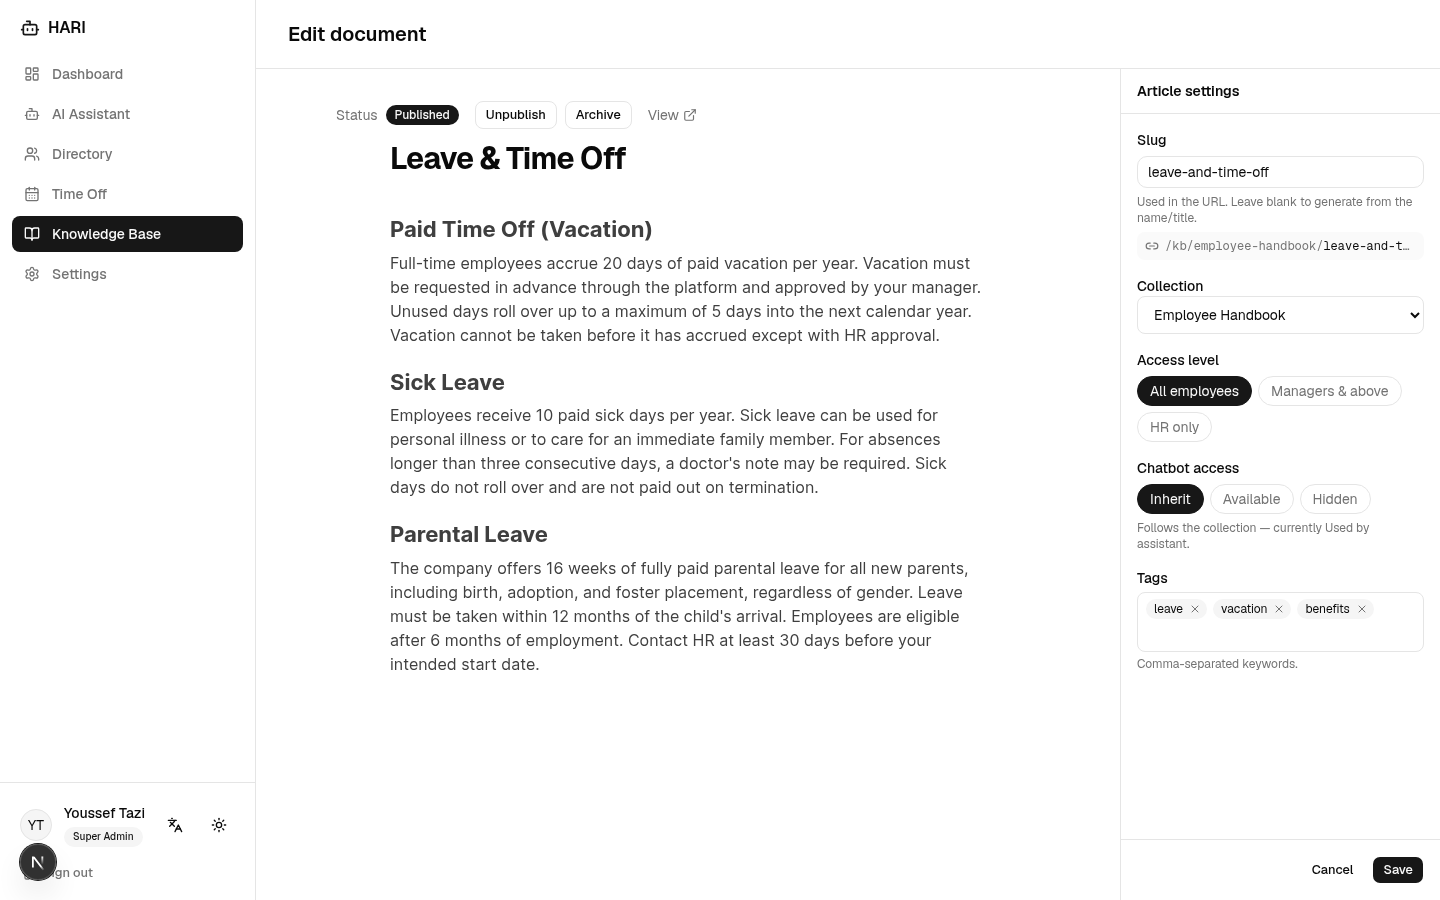
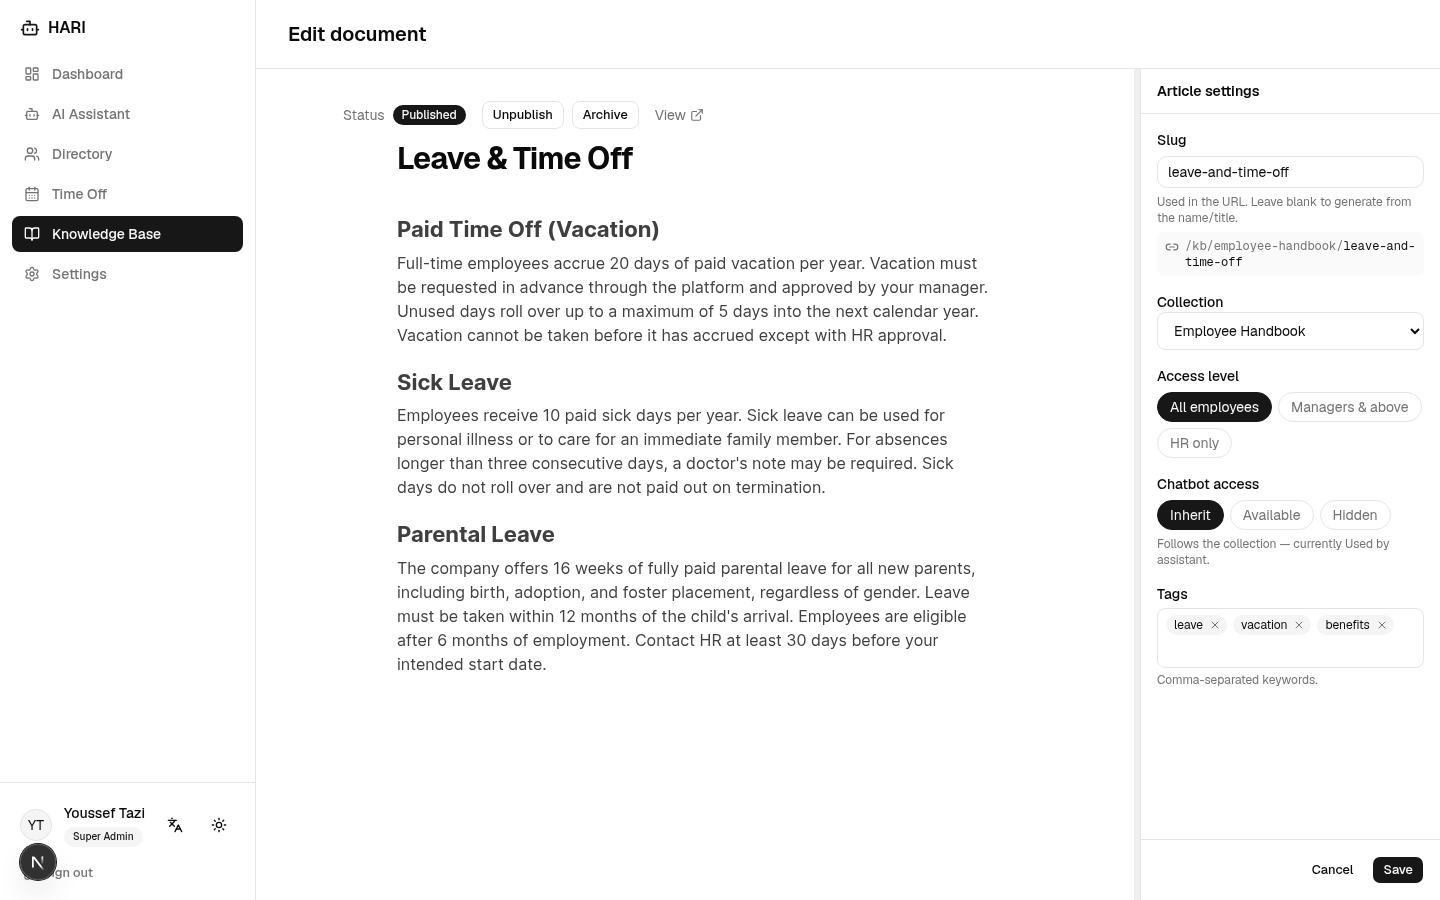
style(kb): resizable editor split, mobile sticky save, slug wrap, reader body
Round of UX fixes from review + web best-practice research:
- Desktop: the canvas | settings split is now resizable (drag handle or keyboard
  arrows, persisted to localStorage, clamped 260–480px), with the left/canvas
  bigger by default (rail 300px).
- Mobile: content-first (title + editor first, settings below) with Save/Cancel in
  a sticky bottom bar within thumb reach (44px targets), per mobile UX guidance.
- Slug preview no longer truncates the slug off the edge — the URL chip wraps so
  the full /kb/{collection}/{slug} stays visible.
- Reader: bumped article body to 16px with a proportionate heading scale for
  comfortable long-form reading (was 14px).

Audited with Playwright + axe-core: 0 violations (desktop + mobile); resize works
via drag and keyboard with aria-valuenow; sticky bar pinned; no horizontal scroll
at 390px. tsc, lint, next build, 64/64 keyless tests green.

diff --git a/src/components/kb/document-form.tsx b/src/components/kb/document-form.tsx
@@ -11,6 +11,7 @@ import { AssistantOverrideField } from "@/components/kb/assistant-override-field
 import { DocumentLifecycle } from "@/components/kb/document-lifecycle";
 import { PillRadioGroup } from "@/components/kb/pill-radio-group";
 import { TagInput } from "@/components/kb/tag-input";
+import { ResizablePanels } from "@/components/kb/resizable-panels";
 
 const VISIBILITIES = Object.values(DocVisibility);
 
@@ -35,11 +36,11 @@ type Defaults = {
 
 const selectClass = "block w-full rounded-md border bg-background px-3 py-2 text-sm";
 
-// Authoring surface modelled on a help-center editor (e.g. Zendesk Guide): the
-// title + content are the canvas (left, scrolls independently); a full-height
-// "Article settings" rail on the right holds the document settings (scrollable)
-// with Cancel/Save pinned to the bottom. On mobile the rail stacks above the
-// canvas and the page scrolls normally.
+// Authoring surface modelled on a help-center editor (e.g. Zendesk Guide). Desktop:
+// the title + content are the canvas (left, scrolls on its own); a resizable,
+// full-height "Article settings" rail on the right holds settings (scrollable)
+// with Cancel/Save pinned to the bottom. Mobile: content first, settings below,
+// and Save in a sticky bottom bar within thumb reach.
 export async function DocumentForm({
   action,
   submitLabel,
@@ -68,106 +69,120 @@ export async function DocumentForm({
   const statusNote =
     status === "DRAFT" ? t("draftNotice") : status === "ARCHIVED" ? t("archivedNotice") : null;
 
-  return (
-    <form action={action} className="flex flex-col-reverse lg:min-h-0 lg:flex-1 lg:flex-row">
-      {defaults.id && <input type="hidden" name="id" value={defaults.id} />}
-
-      {/* Canvas — title + editor, scrolls on its own at lg */}
-      <div className="min-w-0 lg:flex-1 lg:overflow-y-auto">
-        <div className="mx-auto max-w-3xl space-y-3 p-4 md:p-8">
-          {status && (
-            <div className="space-y-1.5">
-              <div className="flex flex-wrap items-center gap-x-4 gap-y-2 text-sm">
-                <span className="flex items-center gap-2 text-muted-foreground">
-                  {t("status")}
-                  <Badge variant={STATUS_VARIANT[status]}>{tStatus(status)}</Badge>
-                </span>
-                {lifecycle && defaults.id && (
-                  <DocumentLifecycle
-                    id={defaults.id}
-                    status={status}
-                    publish={lifecycle.publish}
-                    unpublish={lifecycle.unpublish}
-                    archive={lifecycle.archive}
-                  />
-                )}
-                {viewHref && (
-                  <Link
-                    href={viewHref}
-                    className="inline-flex items-center gap-1 text-muted-foreground transition-colors hover:text-foreground"
-                  >
-                    {t("view")}
-                    <ExternalLink className="size-3.5" />
-                  </Link>
-                )}
-              </div>
-              {statusNote && <p className="text-xs text-muted-foreground">{statusNote}</p>}
-            </div>
-          )}
-          <input
-            name="title"
-            defaultValue={defaults.title ?? ""}
-            required
-            aria-label={t("fieldTitle")}
-            placeholder={t("fieldTitle")}
-            // pl matches BlockNote's 54px content gutter so the title aligns with the body text.
-            className="w-full border-0 bg-transparent pl-[54px] pr-0 text-3xl font-bold tracking-tight outline-none placeholder:text-muted-foreground/40 focus:ring-0"
-          />
-          <ArticleEditor name="content" defaultValue={defaults.content ?? ""} />
-          <p className="pl-[54px] text-xs text-muted-foreground">{t("fieldContentHint")}</p>
+  const canvas = (
+    <div className="mx-auto max-w-3xl space-y-3 p-4 md:p-8">
+      {status && (
+        <div className="space-y-1.5">
+          <div className="flex flex-wrap items-center gap-x-4 gap-y-2 text-sm">
+            <span className="flex items-center gap-2 text-muted-foreground">
+              {t("status")}
+              <Badge variant={STATUS_VARIANT[status]}>{tStatus(status)}</Badge>
+            </span>
+            {lifecycle && defaults.id && (
+              <DocumentLifecycle
+                id={defaults.id}
+                status={status}
+                publish={lifecycle.publish}
+                unpublish={lifecycle.unpublish}
+                archive={lifecycle.archive}
+              />
+            )}
+            {viewHref && (
+              <Link
+                href={viewHref}
+                className="inline-flex items-center gap-1 text-muted-foreground transition-colors hover:text-foreground"
+              >
+                {t("view")}
+                <ExternalLink className="size-3.5" />
+              </Link>
+            )}
+          </div>
+          {statusNote && <p className="text-xs text-muted-foreground">{statusNote}</p>}
         </div>
+      )}
+      <input
+        name="title"
+        defaultValue={defaults.title ?? ""}
+        required
+        aria-label={t("fieldTitle")}
+        placeholder={t("fieldTitle")}
+        // pl matches BlockNote's 54px content gutter so the title aligns with the body text.
+        className="w-full border-0 bg-transparent pl-[54px] pr-0 text-3xl font-bold tracking-tight outline-none placeholder:text-muted-foreground/40 focus:ring-0"
+      />
+      <ArticleEditor name="content" defaultValue={defaults.content ?? ""} />
+      <p className="pl-[54px] text-xs text-muted-foreground">{t("fieldContentHint")}</p>
+    </div>
+  );
+
+  const rail = (
+    <>
+      <div className="shrink-0 border-b px-4 py-3">
+        <h2 className="text-sm font-semibold">{t("articleSettings")}</h2>
       </div>
 
-      {/* Article settings rail — full height at lg, settings scroll, actions pinned */}
-      <aside className="flex shrink-0 flex-col border-b bg-card lg:w-80 lg:overflow-hidden lg:border-b-0 lg:border-l">
-        <div className="shrink-0 border-b px-4 py-3">
-          <h2 className="text-sm font-semibold">{t("articleSettings")}</h2>
-        </div>
+      <div className="space-y-4 p-4 lg:min-h-0 lg:flex-1 lg:overflow-y-auto">
+        <SlugField
+          defaultValue={defaults.slug ?? ""}
+          basePath="/kb/"
+          collections={collections.map((c) => ({ id: c.id, slug: c.slug }))}
+          originalSlug={defaults.slug}
+          warnOnChange={published}
+        />
 
-        <div className="space-y-4 p-4 lg:min-h-0 lg:flex-1 lg:overflow-y-auto">
-          <SlugField
-            defaultValue={defaults.slug ?? ""}
-            basePath="/kb/"
-            collections={collections.map((c) => ({ id: c.id, slug: c.slug }))}
-            originalSlug={defaults.slug}
-            warnOnChange={published}
+        <label className="block space-y-1 text-sm">
+          <span className="font-medium">{t("fieldCollection")}</span>
+          <select name="collectionId" defaultValue={defaults.collectionId ?? ""} required className={selectClass}>
+            {collections.map((c) => (
+              <option key={c.id} value={c.id}>{c.name}</option>
+            ))}
+          </select>
+        </label>
+
+        <div className="space-y-1.5 text-sm">
+          <span className="block font-medium">{t("fieldVisibility")}</span>
+          <PillRadioGroup
+            name="visibility"
+            ariaLabel={t("fieldVisibility")}
+            defaultValue={defaults.visibility ?? "ALL_EMPLOYEES"}
+            options={VISIBILITIES.map((v) => ({ value: v, label: tVis(v) }))}
           />
-
-          <label className="block space-y-1 text-sm">
-            <span className="font-medium">{t("fieldCollection")}</span>
-            <select name="collectionId" defaultValue={defaults.collectionId ?? ""} required className={selectClass}>
-              {collections.map((c) => (
-                <option key={c.id} value={c.id}>{c.name}</option>
-              ))}
-            </select>
-          </label>
-
-          <div className="space-y-1.5 text-sm">
-            <span className="block font-medium">{t("fieldVisibility")}</span>
-            <PillRadioGroup
-              name="visibility"
-              ariaLabel={t("fieldVisibility")}
-              defaultValue={defaults.visibility ?? "ALL_EMPLOYEES"}
-              options={VISIBILITIES.map((v) => ({ value: v, label: tVis(v) }))}
-            />
-          </div>
-
-          {canSetAssistant && (
-            <AssistantOverrideField
-              collections={collections}
-              defaultCollectionId={defaults.collectionId ?? collections[0]?.id ?? ""}
-              defaultOverride={defaults.assistantOverride ?? null}
-            />
-          )}
-
-          <TagInput name="tags" defaultValue={defaults.tags ?? []} />
         </div>
 
-        <div className="flex shrink-0 items-center justify-end gap-2 border-t p-4">
-          <ButtonLink href="/kb/admin" size="sm" variant="ghost">{t("cancel")}</ButtonLink>
-          <Button type="submit" size="sm">{submitLabel}</Button>
-        </div>
-      </aside>
+        {canSetAssistant && (
+          <AssistantOverrideField
+            collections={collections}
+            defaultCollectionId={defaults.collectionId ?? collections[0]?.id ?? ""}
+            defaultOverride={defaults.assistantOverride ?? null}
+          />
+        )}
+
+        <TagInput name="tags" defaultValue={defaults.tags ?? []} />
+      </div>
+
+      {/* Desktop actions — pinned to the rail bottom. Mobile uses the sticky bar below. */}
+      <div className="hidden shrink-0 items-center justify-end gap-2 border-t p-4 lg:flex">
+        <ButtonLink href="/kb/admin" size="sm" variant="ghost">{t("cancel")}</ButtonLink>
+        <Button type="submit" size="sm">{submitLabel}</Button>
+      </div>
+    </>
+  );
+
+  return (
+    <form action={action} className="flex flex-col lg:min-h-0 lg:flex-1">
+      {defaults.id && <input type="hidden" name="id" value={defaults.id} />}
+
+      <ResizablePanels
+        storageKey="kb-editor-rail"
+        left={canvas}
+        right={rail}
+        rightClassName="border-t bg-card lg:border-l lg:border-t-0"
+      />
+
+      {/* Mobile sticky action bar — Save within thumb reach, comfortable tap targets. */}
+      <div className="sticky bottom-0 z-10 flex items-center gap-2 border-t bg-background/95 p-3 backdrop-blur lg:hidden">
+        <ButtonLink href="/kb/admin" variant="ghost" className="h-11 flex-1">{t("cancel")}</ButtonLink>
+        <Button type="submit" className="h-11 flex-1">{submitLabel}</Button>
+      </div>
     </form>
   );
 }

diff --git a/src/components/kb/resizable-panels.tsx b/src/components/kb/resizable-panels.tsx
@@ -1,0 +1,108 @@
+"use client";
+
+import { useEffect, useRef, useState } from "react";
+import { useTranslations } from "next-intl";
+import { cn } from "@/lib/utils";
+
+// Two-pane split for the editor: a fluid left pane (canvas) and a fixed-width
+// right pane (settings rail) the user can drag — or keyboard-resize — to taste,
+// persisted to localStorage. Desktop only: below `lg` the panes stack (left then
+// right) and the handle is hidden. The right width is exposed as a CSS var so it
+// only applies at `lg` (mobile keeps the pane full-width).
+export function ResizablePanels({
+  left,
+  right,
+  storageKey,
+  rightClassName,
+  defaultWidth = 300,
+  min = 260,
+  max = 480,
+}: {
+  left: React.ReactNode;
+  right: React.ReactNode;
+  storageKey: string;
+  rightClassName?: string;
+  defaultWidth?: number;
+  min?: number;
+  max?: number;
+}) {
+  const t = useTranslations("kb");
+  const containerRef = useRef<HTMLDivElement>(null);
+  const [width, setWidth] = useState(defaultWidth);
+  const widthRef = useRef(width);
+  const clamp = (w: number) => Math.min(max, Math.max(min, w));
+  const apply = (w: number) => {
+    const c = clamp(w);
+    widthRef.current = c;
+    setWidth(c);
+  };
+
+  useEffect(() => {
+    const saved = Number(localStorage.getItem(storageKey));
+    if (saved) apply(saved);
+    // eslint-disable-next-line react-hooks/exhaustive-deps
+  }, [storageKey]);
+
+  const persist = () => localStorage.setItem(storageKey, String(widthRef.current));
+
+  const onPointerDown = (e: React.PointerEvent) => {
+    e.preventDefault();
+    document.body.style.userSelect = "none";
+    document.body.style.cursor = "col-resize";
+    const onMove = (ev: PointerEvent) => {
+      const rect = containerRef.current?.getBoundingClientRect();
+      if (rect) apply(rect.right - ev.clientX); // rail hugs the right edge
+    };
+    const onUp = () => {
+      document.removeEventListener("pointermove", onMove);
+      document.removeEventListener("pointerup", onUp);
+      document.body.style.userSelect = "";
+      document.body.style.cursor = "";
+      persist();
+    };
+    document.addEventListener("pointermove", onMove);
+    document.addEventListener("pointerup", onUp);
+  };
+
+  const onKeyDown = (e: React.KeyboardEvent) => {
+    if (e.key === "ArrowLeft") {
+      e.preventDefault();
+      apply(widthRef.current + 24);
+      persist();
+    } else if (e.key === "ArrowRight") {
+      e.preventDefault();
+      apply(widthRef.current - 24);
+      persist();
+    }
+  };
+
+  return (
+    <div
+      ref={containerRef}
+      style={{ ["--rail-w" as string]: `${width}px` }}
+      className="flex flex-col lg:min-h-0 lg:flex-1 lg:flex-row"
+    >
+      <div className="min-w-0 lg:flex-1 lg:overflow-y-auto">{left}</div>
+      <div
+        role="separator"
+        aria-orientation="vertical"
+        aria-label={t("resizePanels")}
+        aria-valuenow={width}
+        aria-valuemin={min}
+        aria-valuemax={max}
+        tabIndex={0}
+        onPointerDown={onPointerDown}
+        onKeyDown={onKeyDown}
+        className="hidden w-1.5 shrink-0 cursor-col-resize bg-border/60 transition-colors hover:bg-primary/40 focus-visible:bg-primary/40 focus-visible:outline-none lg:block"
+      />
+      <div
+        className={cn(
+          "shrink-0 lg:flex lg:w-[var(--rail-w)] lg:flex-col lg:overflow-hidden",
+          rightClassName,
+        )}
+      >
+        {right}
+      </div>
+    </div>
+  );
+}

diff --git a/src/components/kb/article-content.tsx b/src/components/kb/article-content.tsx
@@ -35,11 +35,11 @@ const heading =
 
 const components = {
   h1: ({ children }: { children?: ReactNode }) => (
-    <h1 className="mb-2 mt-4 text-xl font-semibold first:mt-0">{children}</h1>
+    <h1 className="mb-2 mt-6 text-2xl font-semibold first:mt-0">{children}</h1>
   ),
-  h2: heading("h2", "mb-2 mt-6 text-lg font-semibold first:mt-0"),
-  h3: heading("h3", "mb-1.5 mt-5 text-base font-semibold"),
-  p: ({ children }: { children?: ReactNode }) => <p className="my-2 leading-relaxed">{children}</p>,
+  h2: heading("h2", "mb-2 mt-7 text-xl font-semibold first:mt-0"),
+  h3: heading("h3", "mb-1.5 mt-6 text-lg font-semibold"),
+  p: ({ children }: { children?: ReactNode }) => <p className="my-3 leading-relaxed">{children}</p>,
   ul: ({ children }: { children?: ReactNode }) => (
     <ul className="my-2 list-disc space-y-1 pl-6">{children}</ul>
   ),
@@ -101,7 +101,8 @@ const processor = unified()
 export function ArticleContent({ content }: { content: string }) {
   const rendered = processor.processSync(content).result as unknown as ReactNode;
   return (
-    <div className="text-sm">
+    // Comfortable long-form reading size (16px), a step up from the app's dense 14px.
+    <div className="text-base">
       <HighlightOnHash />
       {rendered}
     </div>

diff --git a/src/components/kb/slug-field.tsx b/src/components/kb/slug-field.tsx
@@ -57,9 +57,10 @@ export function SlugField({
       />
       <span className="block text-xs text-muted-foreground">{t("fieldSlugHint")}</span>
       {effective && (
-        <div className="flex items-center gap-1.5 overflow-hidden rounded-md bg-muted/50 px-2 py-1.5">
-          <Link2 className="size-3.5 shrink-0 text-muted-foreground" />
-          <span className="truncate font-mono text-xs text-muted-foreground">
+        <div className="flex items-start gap-1.5 rounded-md bg-muted/50 px-2 py-1.5">
+          <Link2 className="mt-0.5 size-3.5 shrink-0 text-muted-foreground" />
+          {/* Wrap (don't truncate) so the slug — the part that matters — is never hidden. */}
+          <span className="min-w-0 break-all font-mono text-xs text-muted-foreground">
             {prefix}
             <span className="text-foreground">{effective}</span>
           </span>